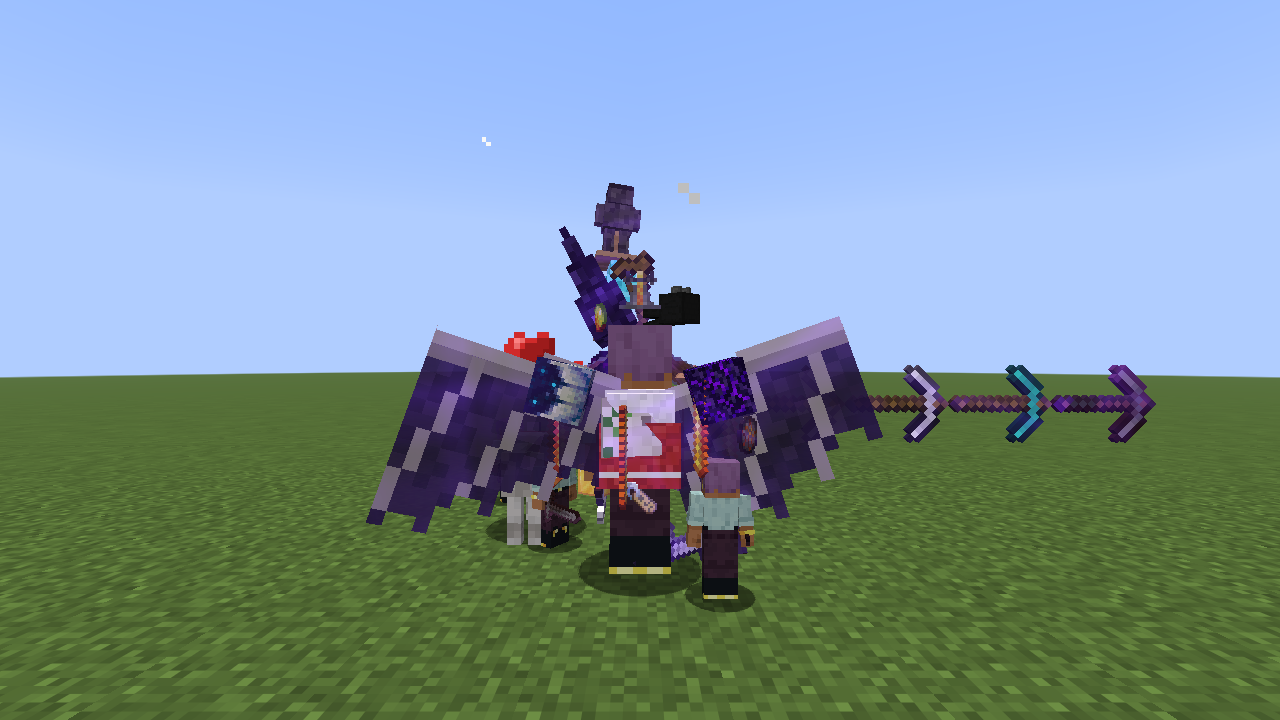
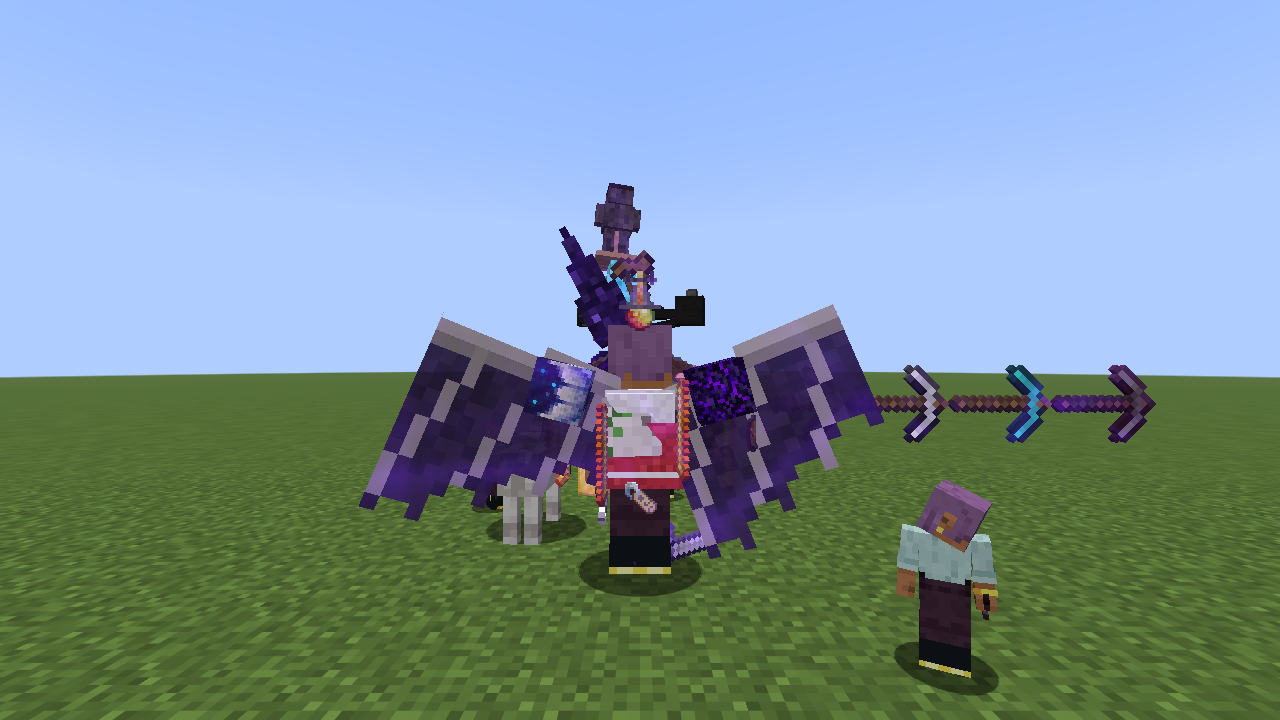
Body Upgrades: bring back the Spooky Scary Skeleton bonus
Getting a wither skeleton skull is part of a normal fortress visit, so it
unlocks a bonus again: melee hits apply Wither, and the skull joins the
crown on the head.

Claude-Session: https://claude.ai/code/session_01HoZ2TzKosxw83sLScjQET2

diff --git a/upgrades/src/main/java/io/github/pikczu77/upgrades/ability/BonusAbilities.java b/upgrades/src/main/java/io/github/pikczu77/upgrades/ability/BonusAbilities.java
@@ -32,8 +32,8 @@ import io.github.pikczu77.upgrades.upgrade.Bonus.Special;
 import io.github.pikczu77.upgrades.upgrade.UpgradeManager;
 
 /**
- * The bonus abilities that need code: fire and wither on hit, the escape teleport, extra experience, calm piglins and
- * the wolf that always comes back. (The three-arrow shot lives in Shooting.)
+ * The bonus abilities that need code: fire and wither on hit, wither for attackers, the escape teleport, extra
+ * experience, calm piglins and the wolf that always comes back. (The three-arrow shot lives in Shooting.)
  */
 public final class BonusAbilities {
 	private static final String BUDDY_TAG = "upgrades_buddy";
@@ -62,8 +62,14 @@ public final class BonusAbilities {
 
 		// The player hits something in melee.
 		if (source.getEntity() instanceof ServerPlayer player && source.getDirectEntity() == player && victim != player
-				&& source.is(DamageTypes.PLAYER_ATTACK) && has(player, Special.FIRE_HIT)) {
-			victim.igniteForSeconds(4.0F);
+				&& source.is(DamageTypes.PLAYER_ATTACK)) {
+			if (has(player, Special.FIRE_HIT)) {
+				victim.igniteForSeconds(4.0F);
+			}
+
+			if (has(player, Special.WITHER_HIT)) {
+				victim.addEffect(new MobEffectInstance(MobEffects.WITHER, 80, 0), player);
+			}
 		}
 
 		// Something hurts the player.

diff --git a/upgrades/src/main/java/io/github/pikczu77/upgrades/upgrade/Bonus.java b/upgrades/src/main/java/io/github/pikczu77/upgrades/upgrade/Bonus.java
@@ -58,6 +58,8 @@ public enum Bonus implements Unlockable {
 			Effect.attr(Attributes.ARMOR, 1.0, false), "{+1 pancerza}"),
 	TERRIBLE_FORTRESS("nether/find_fortress", "Straszliwa Forteca", 0xFF7F00, Slot.HEAD, Items.MAGMA_CREAM,
 			Effect.potion(MobEffects.FIRE_RESISTANCE), "{Odporność na ogień}"),
+	SPOOKY_SKULL("nether/get_wither_skull", "Upiorna Czaszka", 0x4A4A4A, Slot.HEAD, Items.WITHER_SKELETON_SKULL,
+			Effect.special(Special.WITHER_HIT), "Ciosy nakładają {Obumarcie}"),
 	WAR_PIGS("nether/loot_bastion", "Świnie Wojenne", 0xFFD700, Slot.BELT, Items.GOLD_BLOCK,
 			Effect.attr(Attributes.ARMOR_TOUGHNESS, 1.0, false), "{+1 wytrzymałości} pancerza"),
 	CRYING_OBSIDIAN("nether/obtain_crying_obsidian", "Kto Kroi Cebulę?", 0xAA55FF, Slot.BACK, Items.CRYING_OBSIDIAN,
@@ -85,7 +87,7 @@ public enum Bonus implements Unlockable {
 
 	/** Abilities that need their own code (see BonusAbilities). */
 	public enum Special {
-		MULTISHOT, XP_BONUS, THORNS_WITHER, ESCAPE, WOLF_BUDDY, PIGLIN_CALM, FIRE_HIT
+		MULTISHOT, XP_BONUS, THORNS_WITHER, ESCAPE, WOLF_BUDDY, PIGLIN_CALM, FIRE_HIT, WITHER_HIT
 	}
 
 	/** What the bonus does: an attribute modifier, a lasting potion effect or a special ability. */

diff --git a/upgrades/README.md b/upgrades/README.md
@@ -51,11 +51,11 @@ Mod musi być **na serwerze i u graczy** (klient rysuje części ciała, klony i
 | Następne pokolenie | **Następne Pokolenie** | małe klony, które same się mnożą... | smocze jajo na ramieniu |
 
 Po odblokowaniu z góry ekranu zjeżdża **baner „NOWE ULEPSZENIE”** (ikona części ciała, nazwa, opis i licznik kolekcji,
-np. 12/42), gra dźwięk, a opis mocy trafia też na czat. Kilka ulepszeń naraz pokazuje się po kolei. Gracze bez moda
+np. 12/43), gra dźwięk, a opis mocy trafia też na czat. Kilka ulepszeń naraz pokazuje się po kolei. Gracze bez moda
 dostają zwykły napis na środku ekranu.
 Ulepszenia wynikają z osiągnięć, więc działa też `/advancement grant|revoke` i nic nie jest zapisywane w świecie poza ustawieniami.
 
-## Bonusy za osiągnięcia „po drodze” (18)
+## Bonusy za osiągnięcia „po drodze” (19)
 
 Poza ulepszeniami z filmu bonus dają tylko osiągnięcia, które zdobywa się zwyczajnie w trakcie gry aż do smoka (bez
 zbierania wszystkich biomów, kotów czy mikstur). Każdy daje mniejszą moc i przedmiot z ikony osiągnięcia gdzieś na
@@ -81,6 +81,7 @@ przyciąga moba, na którego patrzysz (lewa ręka kończy się wędką).
 | Oh Shiny | rzuć piglinowi złoto | **Błyskotki** | **Pigliny cię nie atakują** | gold_ingot — u pasa |
 | Those Were the Days | wejdź do bastionu | **Dawne Czasy** | **+1 pancerza** | polished_blackstone_bricks — na piersi |
 | A Terrible Fortress | wejdź do twierdzy Netheru | **Straszliwa Forteca** | **Odporność na ogień** | magma_cream — korona na głowie |
+| Spooky Scary Skeleton | zdobądź czaszkę witherowego szkieleta (w twierdzy Netheru) | **Upiorna Czaszka** | Ciosy nakładają **Obumarcie** | wither_skeleton_skull — korona na głowie |
 | War Pigs | otwórz skrzynię w bastionie | **Świnie Wojenne** | **+1 wytrzymałości** pancerza | gold_block — u pasa |
 | Who is Cutting Onions? | zdobądź płaczący obsydian | **Kto Kroi Cebulę?** | **+1 serce** | crying_obsidian — wachlarz na plecach |
 | Return to Sender | odbij kulę ognia ghasta i zabij go nią | **Zwrot do Nadawcy** | Ciosy **podpalają** | fire_charge — krąży wokół |
